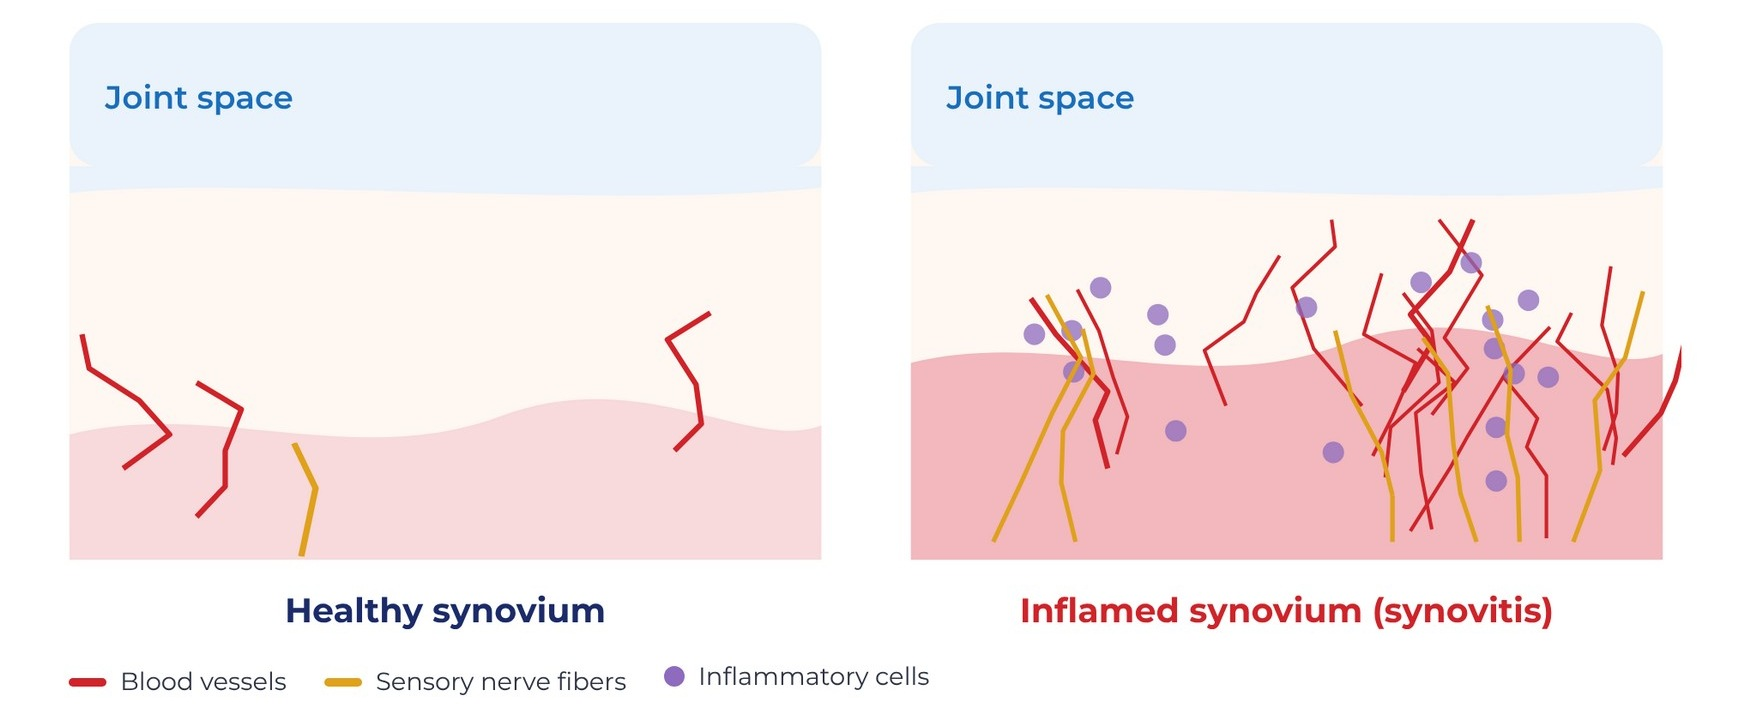
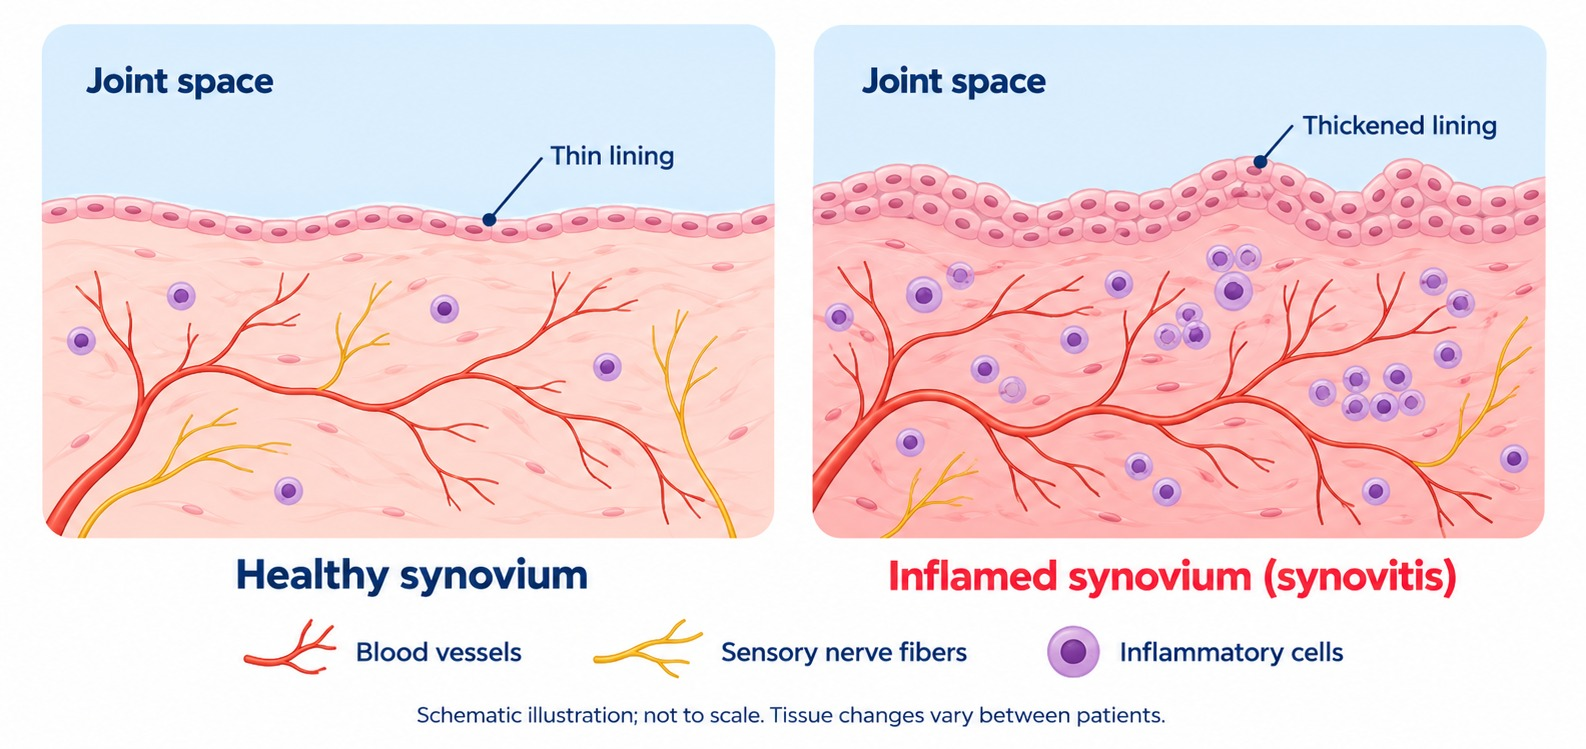
Flip J10a: new joint lining illustration
Claude-Session: https://claude.ai/code/session_011FeJdRfmDCgTZcMtNMgwbg

diff --git a/js/templates.js b/js/templates.js
@@ -727,7 +727,7 @@ window.AJPVC_TEMPLATES = [
     "label": "J10a · Inside the Joint Lining: Extra Vessels and Nerves (patient side)",
     "w": 1056,
     "h": 816,
-    "html": "<div style=\"width: 1056px; height: 816px; box-sizing: border-box; background: #FFFEFB; color: #1B2440; font-family: 'Public Sans', sans-serif; display: flex; flex-direction: column; padding: 34px 44px 26px; gap: 20px\">\n<div style=\"display: flex; justify-content: space-between; align-items: flex-end; gap: 24px; border-bottom: 5px solid #C8231E; padding-bottom: 14px\">\n<div style=\"display: flex; flex-direction: column; gap: 4px\"><p style=\"margin: 0; font-family: 'Montserrat', sans-serif; font-weight: 700; font-size: 15px; letter-spacing: 3px; text-transform: uppercase; color: #C8231E\">Joint pain</p>\n<h1 style=\"margin: 0; font-family: 'Montserrat', sans-serif; font-weight: 800; font-size: 44px; line-height: 1.05; color: #16306E\">Inside the Joint Lining: Extra Vessels and Nerves</h1></div>\n<div style=\"display: flex; align-items: center; gap: 14px\"><img src=\"assets/logo-hvlc.png\" alt=\"Heart Vascular &amp; Leg Center logo\" style=\"height: 34px; width: 78px; object-fit: contain; object-position: left center\"><span style=\"width: 1px; height: 27px; background: #E2DED4\"></span><img src=\"assets/logo-long-nodivision.png\" alt=\"Advanced Joint Pain &amp; Vascular Center logo\" style=\"height: 34px; width: 129px; object-fit: contain; object-position: left center\"></div></div>\n<main style=\"flex: 1; min-height: 0; display: flex; flex-direction: column; gap: 16px\"><div style=\"flex: 1; min-height: 0; display: flex; flex-direction: column; gap: 10px\"><div style=\"flex: 1; min-height: 0; min-width: 0; background: #FFFFFF; border-radius: 18px; overflow: hidden; display: flex\"><img src=\"assets/book-lining.jpg\" alt=\"Healthy joint lining beside an inflamed lining filled with extra blood vessels, nerve fibers and inflammatory cells\" style=\"width: 100%; height: 100%; object-fit: contain; object-position: 50% 50%; display: block\"></div></div><div style=\"display: flex; gap: 24px\"><div style=\"flex: 1; min-width: 0; display: flex; gap: 12px; align-items: flex-start; border-top: 4px solid #C8231E; padding-top: 12px\"><p style=\"margin: 0; font-size: 22px; line-height: 1.32; color: #1B2440\">Arthritis can make the thin lining inside the knee swollen.</p></div><div style=\"flex: 1; min-width: 0; display: flex; gap: 12px; align-items: flex-start; border-top: 4px solid #C8231E; padding-top: 12px\"><p style=\"margin: 0; font-size: 22px; line-height: 1.32; color: #1B2440\">New blood vessels and nerves can grow there and add pain.</p></div><div style=\"flex: 1; min-width: 0; display: flex; gap: 12px; align-items: flex-start; border-top: 4px solid #C8231E; padding-top: 12px\"><p style=\"margin: 0; font-size: 22px; line-height: 1.32; color: #1B2440\">GAE aims to calm these extra vessels, not fix cartilage.</p></div></div></main></div>"
+    "html": "<div style=\"width: 1056px; height: 816px; box-sizing: border-box; background: #FFFEFB; color: #1B2440; font-family: 'Public Sans', sans-serif; display: flex; flex-direction: column; padding: 34px 44px 26px; gap: 20px\">\n<div style=\"display: flex; justify-content: space-between; align-items: flex-end; gap: 24px; border-bottom: 5px solid #C8231E; padding-bottom: 14px\">\n<div style=\"display: flex; flex-direction: column; gap: 4px\"><p style=\"margin: 0; font-family: 'Montserrat', sans-serif; font-weight: 700; font-size: 15px; letter-spacing: 3px; text-transform: uppercase; color: #C8231E\">Joint pain</p>\n<h1 style=\"margin: 0; font-family: 'Montserrat', sans-serif; font-weight: 800; font-size: 44px; line-height: 1.05; color: #16306E\">Inside the Joint Lining: Extra Vessels and Nerves</h1></div>\n<div style=\"display: flex; align-items: center; gap: 14px\"><img src=\"assets/logo-hvlc.png\" alt=\"Heart Vascular &amp; Leg Center logo\" style=\"height: 34px; width: 78px; object-fit: contain; object-position: left center\"><span style=\"width: 1px; height: 27px; background: #E2DED4\"></span><img src=\"assets/logo-long-nodivision.png\" alt=\"Advanced Joint Pain &amp; Vascular Center logo\" style=\"height: 34px; width: 129px; object-fit: contain; object-position: left center\"></div></div>\n<main style=\"flex: 1; min-height: 0; display: flex; flex-direction: column; gap: 16px\"><div style=\"flex: 1; min-height: 0; display: flex; flex-direction: column; gap: 10px\"><div style=\"flex: 1; min-height: 0; min-width: 0; background: #FFFFFF; border-radius: 18px; overflow: hidden; display: flex\"><img src=\"assets/book-lining.jpg\" alt=\"A healthy, thin joint lining beside an inflamed, thickened lining with more blood vessels, sensory nerve fibers and inflammatory cells\" style=\"width: 100%; height: 100%; object-fit: contain; object-position: 50% 50%; display: block\"></div></div><div style=\"display: flex; gap: 24px\"><div style=\"flex: 1; min-width: 0; display: flex; gap: 12px; align-items: flex-start; border-top: 4px solid #C8231E; padding-top: 12px\"><p style=\"margin: 0; font-size: 22px; line-height: 1.32; color: #1B2440\">Arthritis can make the thin lining inside the knee swollen.</p></div><div style=\"flex: 1; min-width: 0; display: flex; gap: 12px; align-items: flex-start; border-top: 4px solid #C8231E; padding-top: 12px\"><p style=\"margin: 0; font-size: 22px; line-height: 1.32; color: #1B2440\">New blood vessels and nerves can grow there and add pain.</p></div><div style=\"flex: 1; min-width: 0; display: flex; gap: 12px; align-items: flex-start; border-top: 4px solid #C8231E; padding-top: 12px\"><p style=\"margin: 0; font-size: 22px; line-height: 1.32; color: #1B2440\">GAE aims to calm these extra vessels, not fix cartilage.</p></div></div></main></div>"
    },
    {
     "label": "J10b · Inside the Joint Lining: Extra Vessels and Nerves (provider side)",

diff --git a/source/FlipJ10Lining.dc.html b/source/FlipJ10Lining.dc.html
@@ -18,7 +18,7 @@ body{margin:0}
 <div style="display: flex; flex-direction: column; gap: 4px"><p style="margin: 0; font-family: 'Montserrat', sans-serif; font-weight: 700; font-size: 15px; letter-spacing: 3px; text-transform: uppercase; color: #C8231E">Joint pain</p>
 <h1 style="margin: 0; font-family: 'Montserrat', sans-serif; font-weight: 800; font-size: 44px; line-height: 1.05; color: #16306E">Inside the Joint Lining: Extra Vessels and Nerves</h1></div>
 <div style="display: flex; align-items: center; gap: 14px"><img src="/_blob/1e4ce51a5c3cb793b6317890e43e495e" alt="Heart Vascular &amp; Leg Center logo" style="height: 34px; width: 78px; object-fit: contain; object-position: left center"><span style="width: 1px; height: 27px; background: #E2DED4"></span><img src="/_blob/48c0202744b17fe1f033a36586de7a92" alt="Advanced Joint Pain &amp; Vascular Center logo" style="height: 34px; width: 129px; object-fit: contain; object-position: left center"></div></div>
-<main style="flex: 1; min-height: 0; display: flex; flex-direction: column; gap: 16px"><div style="flex: 1; min-height: 0; display: flex; flex-direction: column; gap: 10px"><div style="flex: 1; min-height: 0; min-width: 0; background: #FFFFFF; border-radius: 18px; overflow: hidden; display: flex"><img src="/_blob/5f30335a1dee8e12d601c01aa6922884" alt="Healthy joint lining beside an inflamed lining filled with extra blood vessels, nerve fibers and inflammatory cells" style="width: 100%; height: 100%; object-fit: contain; object-position: 50% 50%; display: block"></div></div><div style="display: flex; gap: 24px"><div style="flex: 1; min-width: 0; display: flex; gap: 12px; align-items: flex-start; border-top: 4px solid #C8231E; padding-top: 12px"><p style="margin: 0; font-size: 22px; line-height: 1.32; color: #1B2440">Arthritis can make the thin lining inside the knee swollen.</p></div><div style="flex: 1; min-width: 0; display: flex; gap: 12px; align-items: flex-start; border-top: 4px solid #C8231E; padding-top: 12px"><p style="margin: 0; font-size: 22px; line-height: 1.32; color: #1B2440">New blood vessels and nerves can grow there and add pain.</p></div><div style="flex: 1; min-width: 0; display: flex; gap: 12px; align-items: flex-start; border-top: 4px solid #C8231E; padding-top: 12px"><p style="margin: 0; font-size: 22px; line-height: 1.32; color: #1B2440">GAE aims to calm these extra vessels, not fix cartilage.</p></div></div></main></div>
+<main style="flex: 1; min-height: 0; display: flex; flex-direction: column; gap: 16px"><div style="flex: 1; min-height: 0; display: flex; flex-direction: column; gap: 10px"><div style="flex: 1; min-height: 0; min-width: 0; background: #FFFFFF; border-radius: 18px; overflow: hidden; display: flex"><img src="/_blob/6d1bb45e4332ebba7f10f000243ed468" alt="A healthy, thin joint lining beside an inflamed, thickened lining with more blood vessels, sensory nerve fibers and inflammatory cells" style="width: 100%; height: 100%; object-fit: contain; object-position: 50% 50%; display: block"></div></div><div style="display: flex; gap: 24px"><div style="flex: 1; min-width: 0; display: flex; gap: 12px; align-items: flex-start; border-top: 4px solid #C8231E; padding-top: 12px"><p style="margin: 0; font-size: 22px; line-height: 1.32; color: #1B2440">Arthritis can make the thin lining inside the knee swollen.</p></div><div style="flex: 1; min-width: 0; display: flex; gap: 12px; align-items: flex-start; border-top: 4px solid #C8231E; padding-top: 12px"><p style="margin: 0; font-size: 22px; line-height: 1.32; color: #1B2440">New blood vessels and nerves can grow there and add pain.</p></div><div style="flex: 1; min-width: 0; display: flex; gap: 12px; align-items: flex-start; border-top: 4px solid #C8231E; padding-top: 12px"><p style="margin: 0; font-size: 22px; line-height: 1.32; color: #1B2440">GAE aims to calm these extra vessels, not fix cartilage.</p></div></div></main></div>
 </x-dc>
 <script type="text/x-dc" data-dc-script data-props='{"$preview":{"width":1056,"height":816}}'>
 class Component extends DCLogic {
